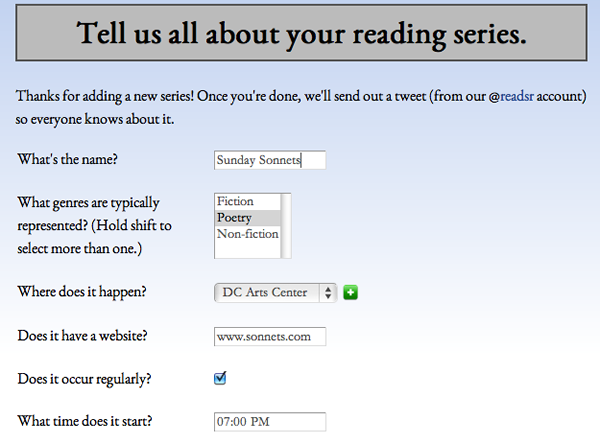
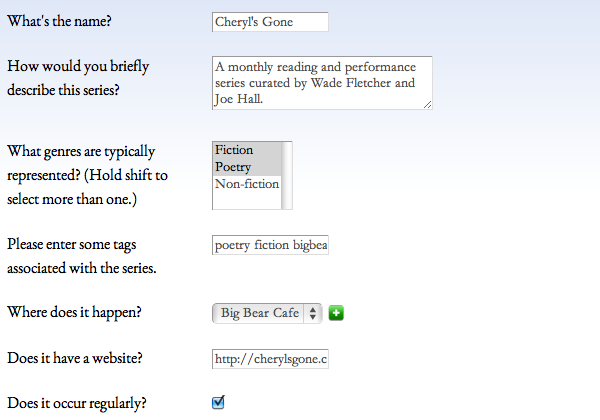
Removed old fixtures. Fixed some layout bugs in tag and series_detail templates. Add new flatpages fixture. Added textarea widget with settable rows and columns.

diff --git a/templates/series_detail.html b/templates/series_detail.html
@@ -28,7 +28,7 @@ var end_date = "{{ end_date }}";
 	</div> <!-- banner -->
 	<div class="series_info">		
 	<dl class="series_info">
-		<dt class="series_info">About</dt>
+		<dt class="series_info first">About</dt>
 		<dd class="series_info">{{ series.description }}</dd>
 		{% if series.tags.all %}
 		<dt class="series_info">Tags</dt>
@@ -84,7 +84,7 @@ var end_date = "{{ end_date }}";
 		<dt class="series_info">Website</dt>
 		<dd class="series_info">{{ series.website|urlizetrunc:22|default:"None available" }}</dd>
 
-		<dt class="series_info first">Contact</dt>
+		<dt class="series_info">Contact</dt>
 		<dd class="series_info"><a href="{% url detail-contact series.contact_id %}">{{ series.contact.first_name }} {{ series.contact.last_name }}</a></dd>
 
 		{% if series.notes.all %}

diff --git a/templates/tag_snippet.html b/templates/tag_snippet.html
@@ -2,7 +2,7 @@
 
 <h2>Series Tags</h2>
 
-{% get_tagcloud as tags for 'series.Series' %}
+{% get_taglist as tags for 'series.Series' %}
 <ul style="padding: .5em">
 {% for tag in tags %}
 	<li><a href="{% url tag-list tag.slug %}">{{ tag.name }}</a> ({{ tag.num_times }})</li>

diff --git a/series/forms.py b/series/forms.py
@@ -18,10 +18,16 @@ from contact_form.forms import ContactForm
 from registration.forms import RegistrationFormUniqueEmail
 from city_site.models import CitySite
 
-
+class DifferentlySizedTextarea(forms.Textarea):
+  def __init__(self, *args, **kwargs):
+    attrs = kwargs.setdefault('attrs', {})
+    attrs.setdefault('cols', 40)
+    attrs.setdefault('rows', 3)
+    super(DifferentlySizedTextarea, self).__init__(*args, **kwargs)
+    
 class SeriesForm(forms.ModelForm):
     regular = forms.BooleanField(required=False)
-    irregular_date_description = forms.CharField(required=False, widget=forms.Textarea)
+    irregular_date_description = forms.CharField(required=False, widget=DifferentlySizedTextarea)
     # time = forms.TimeField(
     #     input_formats=('%H:%M', '%I:%M %p', '%I %p', '%H.%M', '%I.%M %p'), 
     #     widget=forms.TimeInput(format=r"%I:%M %p",), 
@@ -36,7 +42,7 @@ class SeriesForm(forms.ModelForm):
     admission_description = forms.CharField(required=False)
     notes = forms.CharField(required=False)
     wiki_mode = forms.BooleanField(required=False)
-    description = forms.CharField(required=True, widget=forms.Textarea)
+    description = forms.CharField(required=True, widget=DifferentlySizedTextarea)
 
     class Meta:
         model = Series
